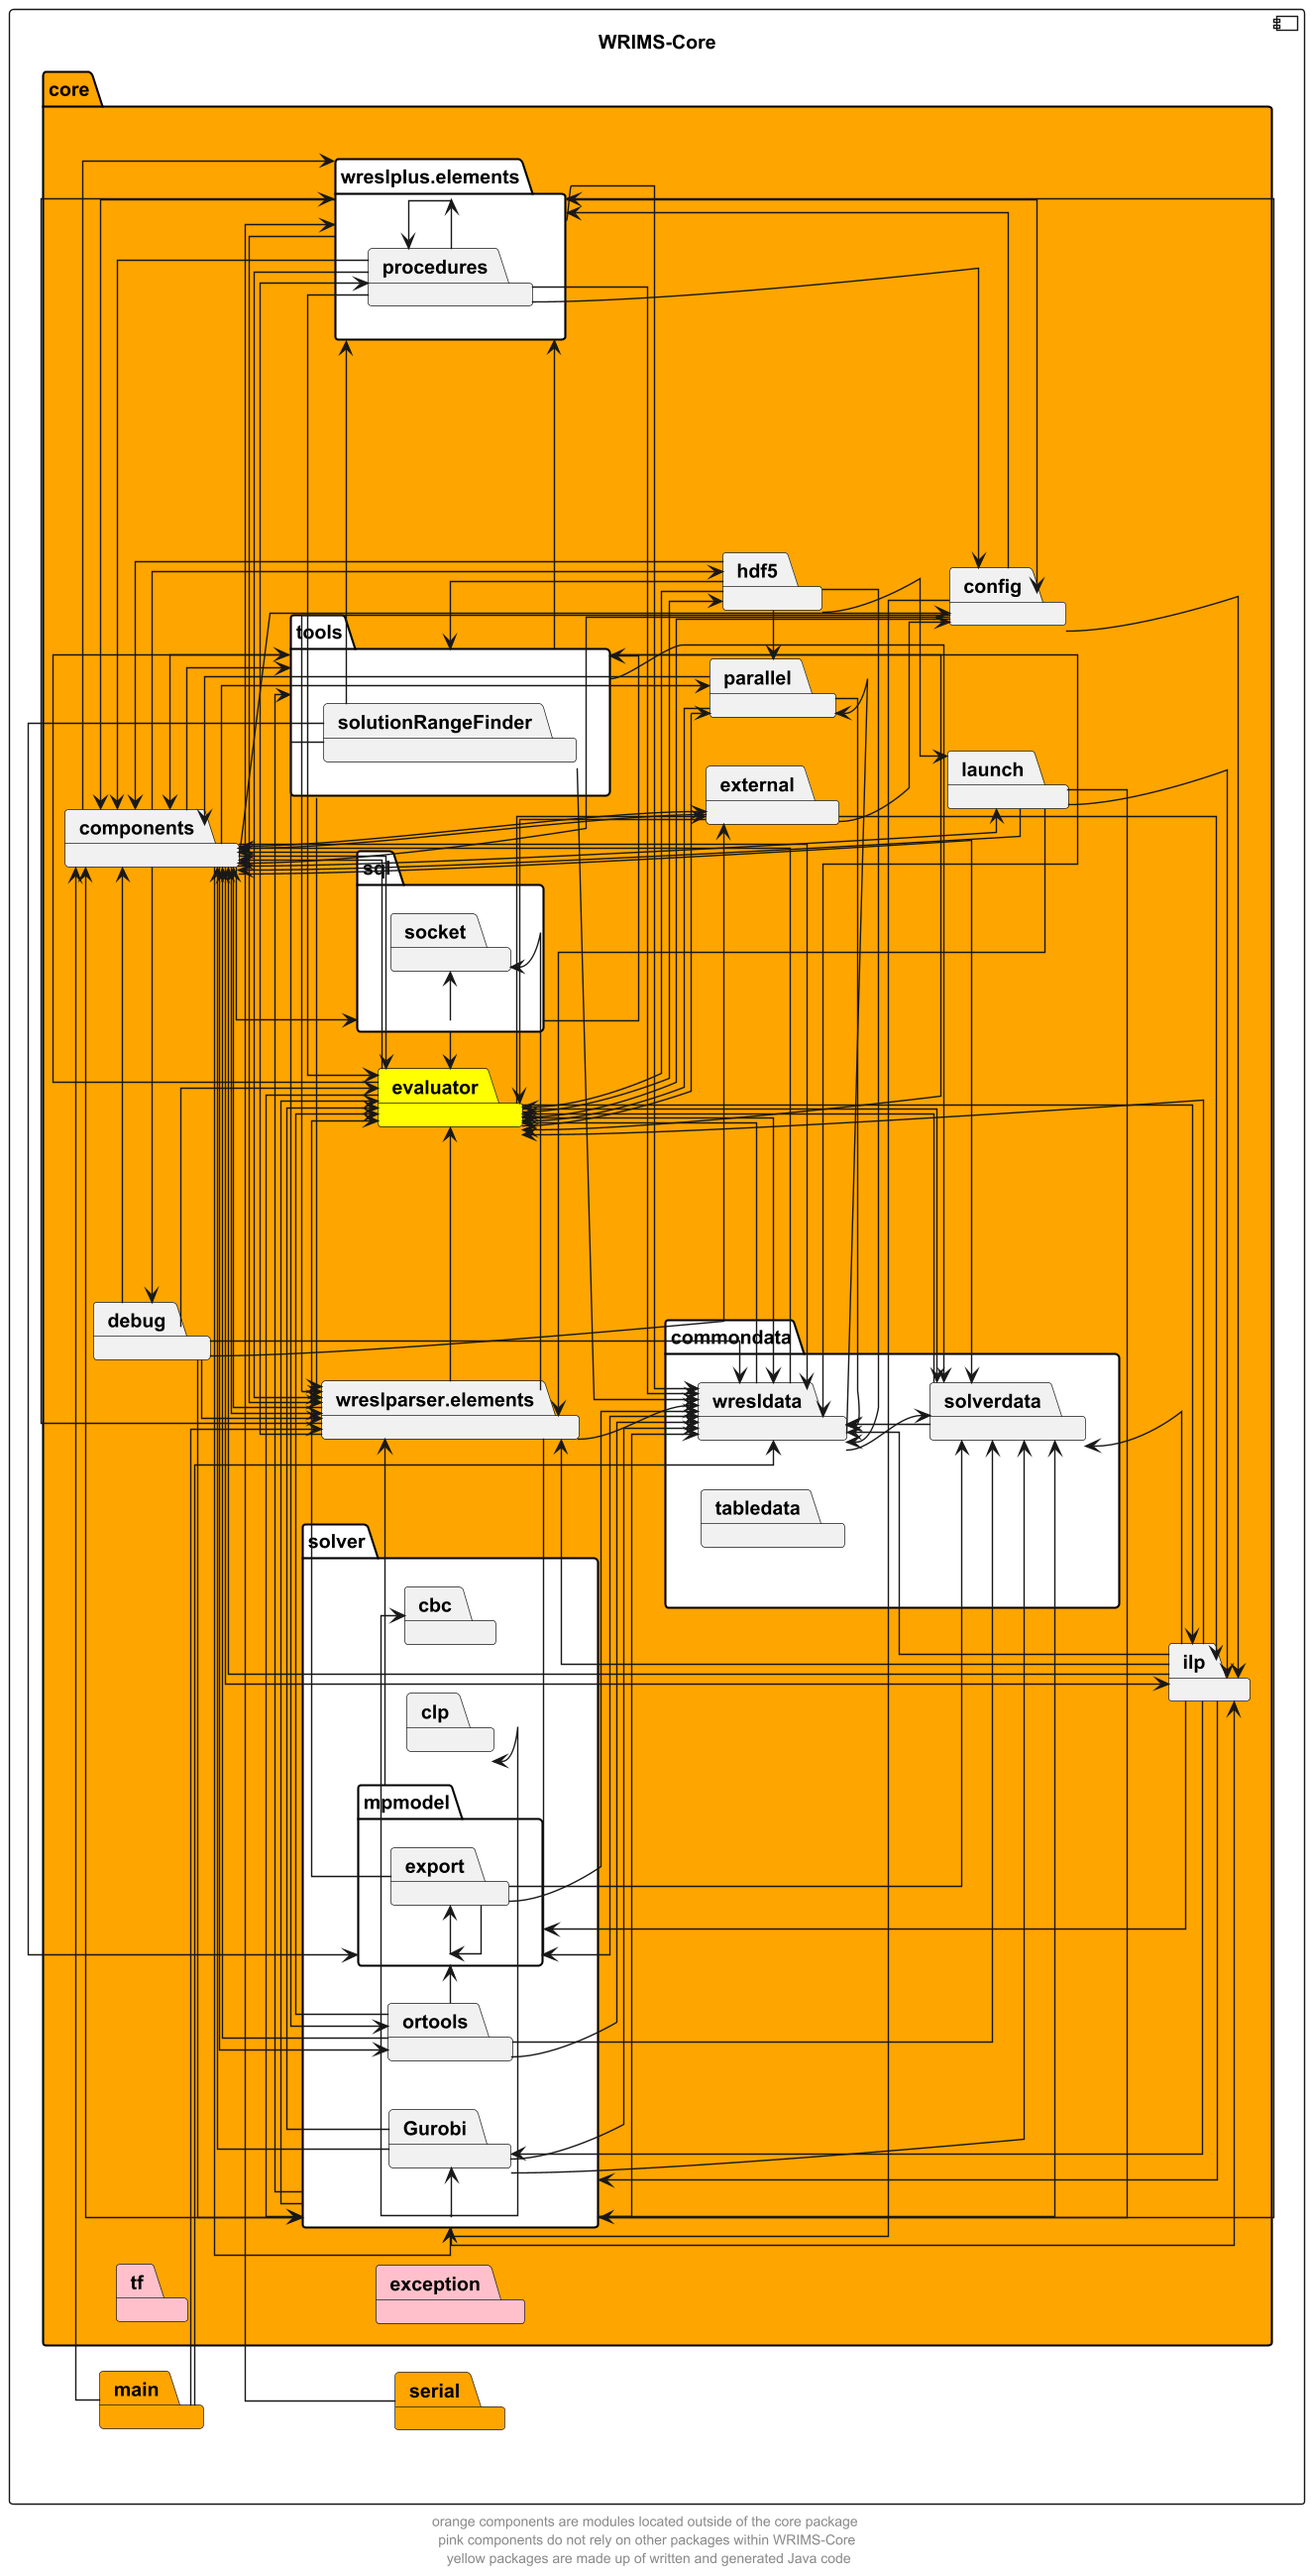
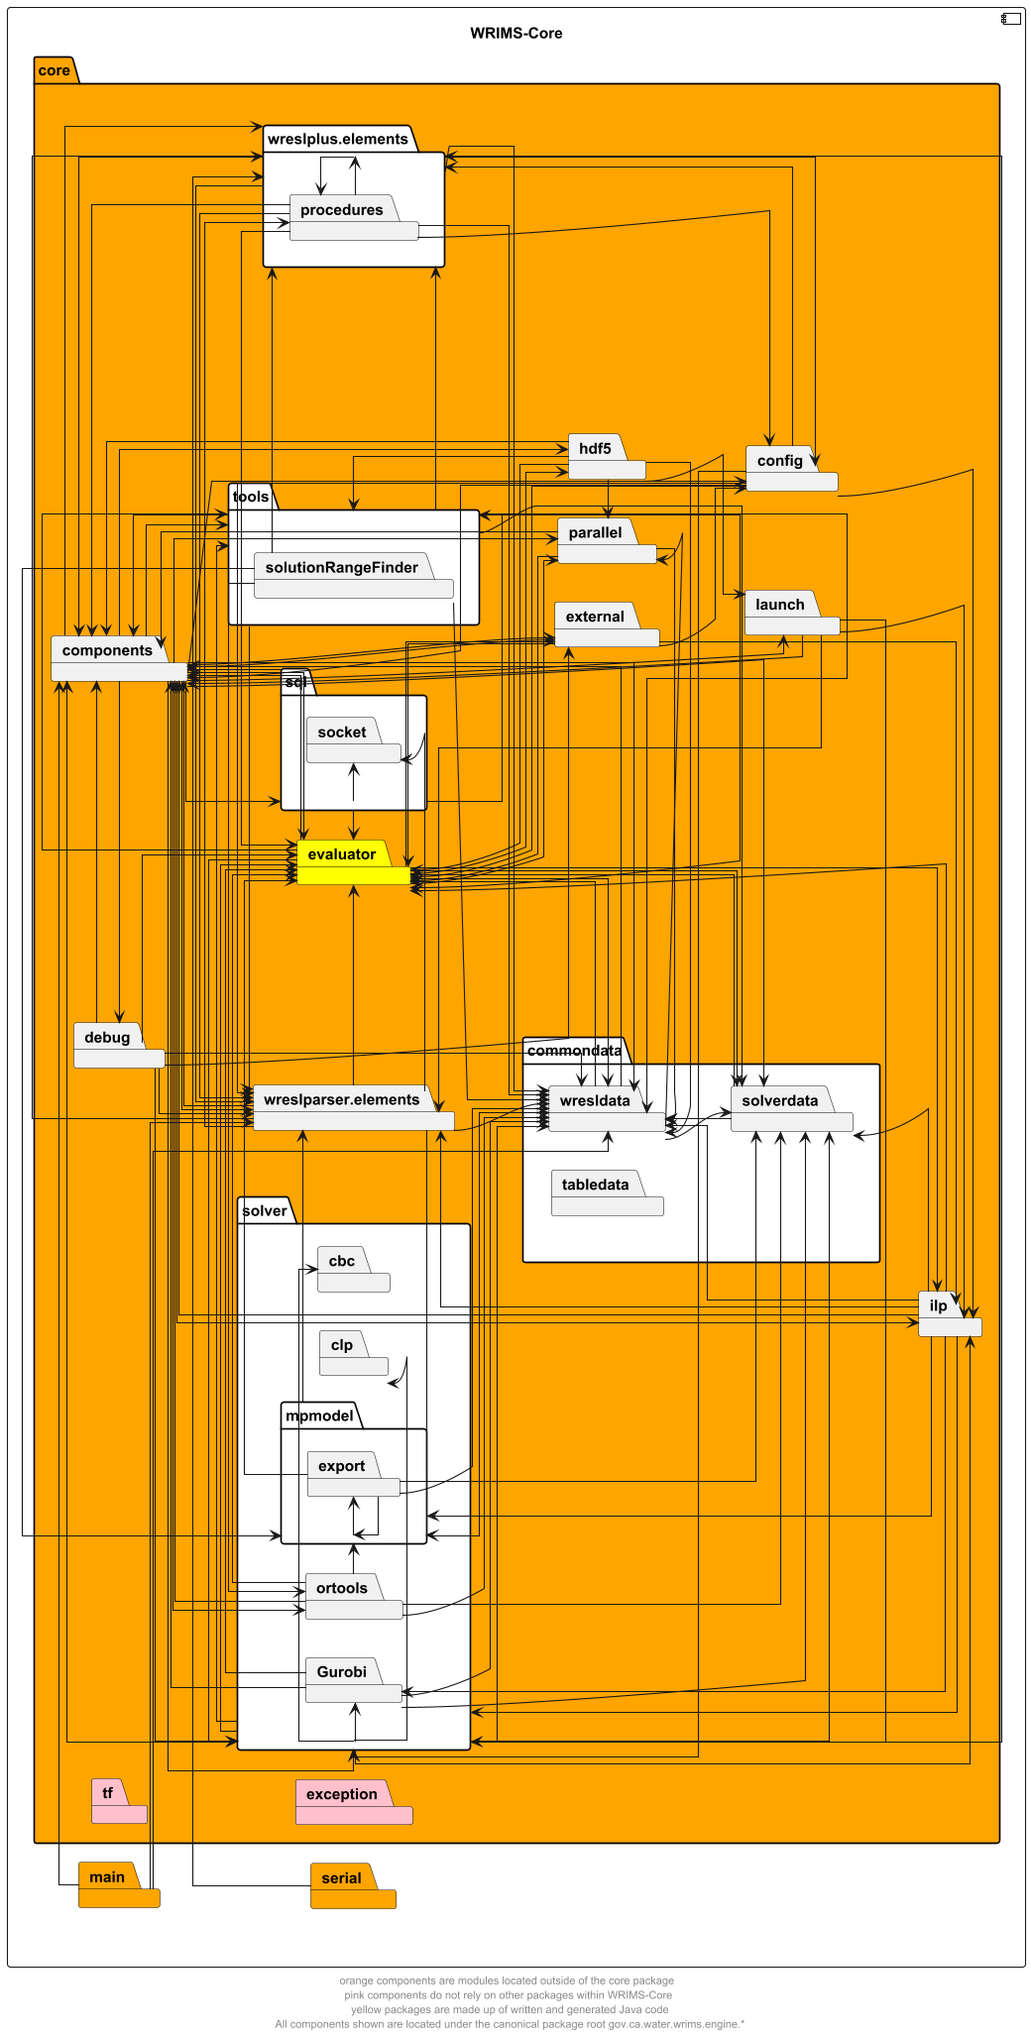
README updates and diagram updates.

Changed region(s): [[0.0, 0.0, 1.0, 0.9961], [0.7385, 0.7471, 0.8615, 0.7782], [0.4615, 0.0, 0.5538, 0.0311]]

diff --git a/README.md b/README.md
@@ -190,5 +190,6 @@ WRIMS compatibility with existing projects and the CalLite code. As a result, th
 in the previous package path within this project. The necessary helper classes have been moved to the new package 
 locations, but have had facade classes added to allow for their utilization from the `wrimsv2.external` classes.
 
-This change allows for successful class loading for native code. However, the CalLite library and projects using it
-should eventually be updated to use the new pathing. This includes the ANN DLLs that are used to run the modelling processes.
+This change allows for successful class loading for native code. However, the CalLite library, other dependencies,
+and projects using them should eventually be updated to use the new canonical package naming. 
+This includes the ANN DLLs that are used to run the modelling processes.
